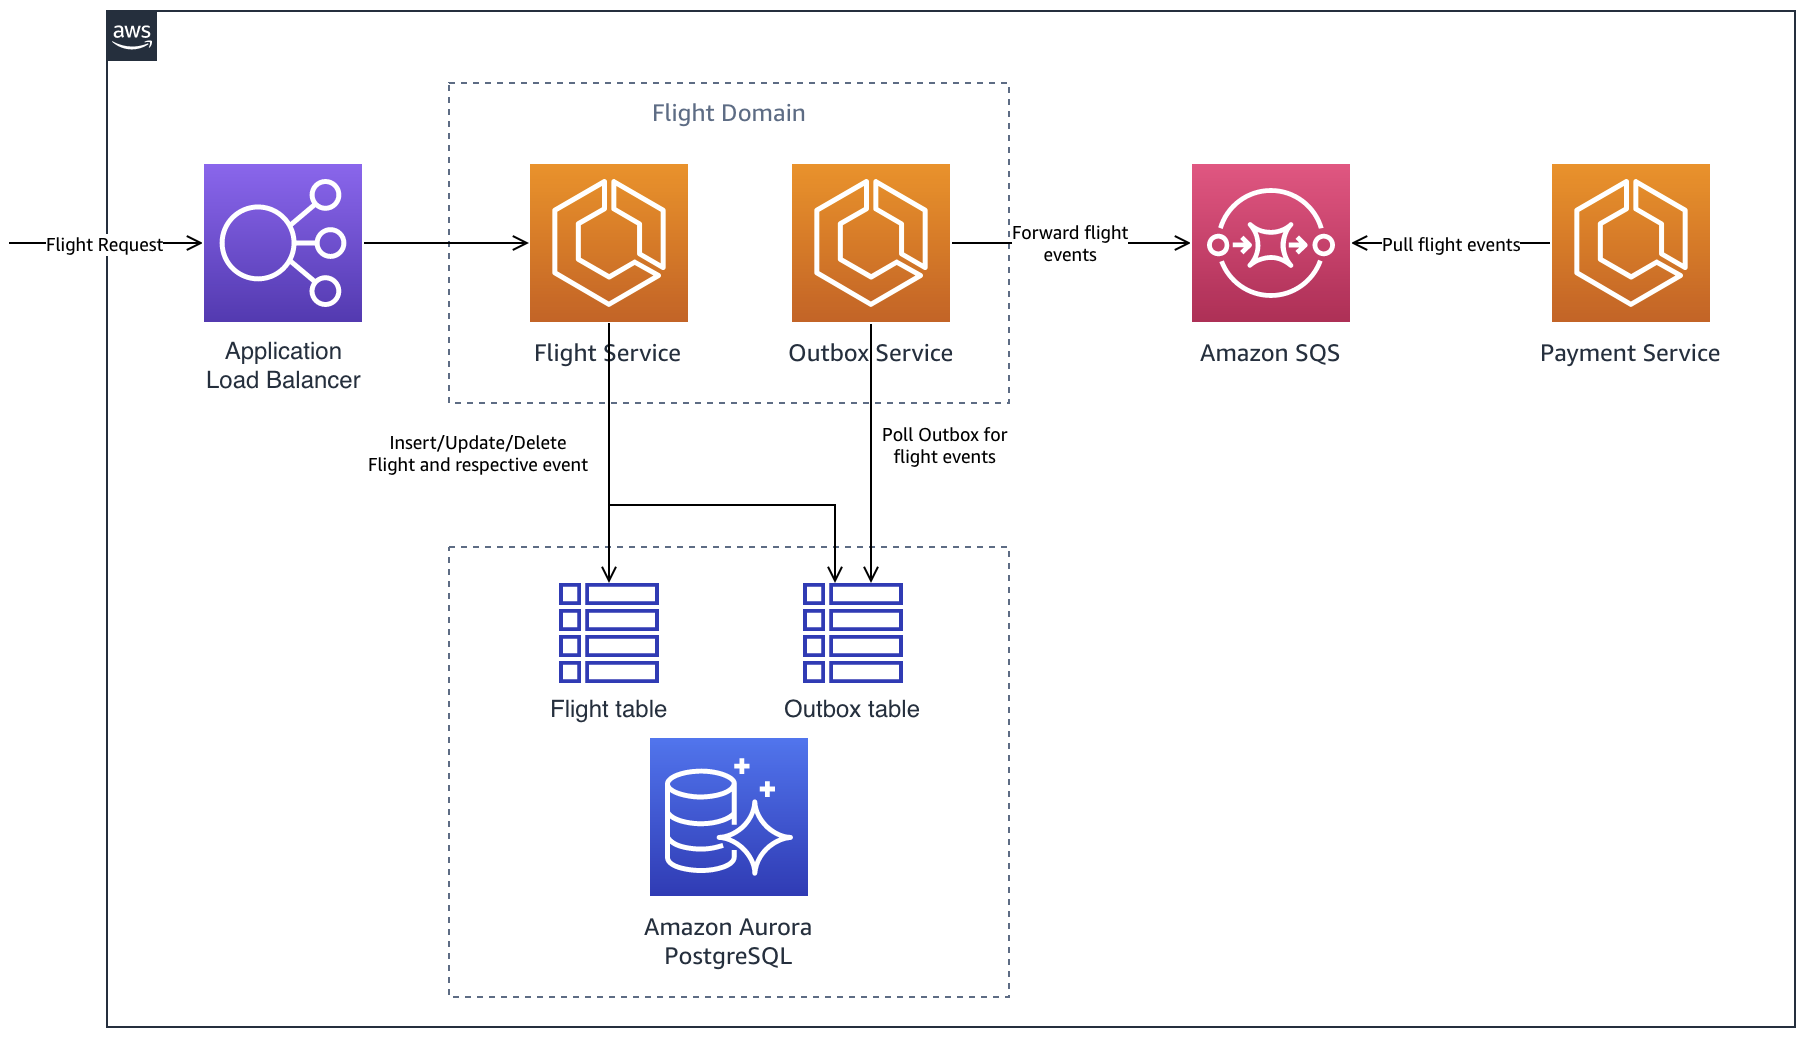
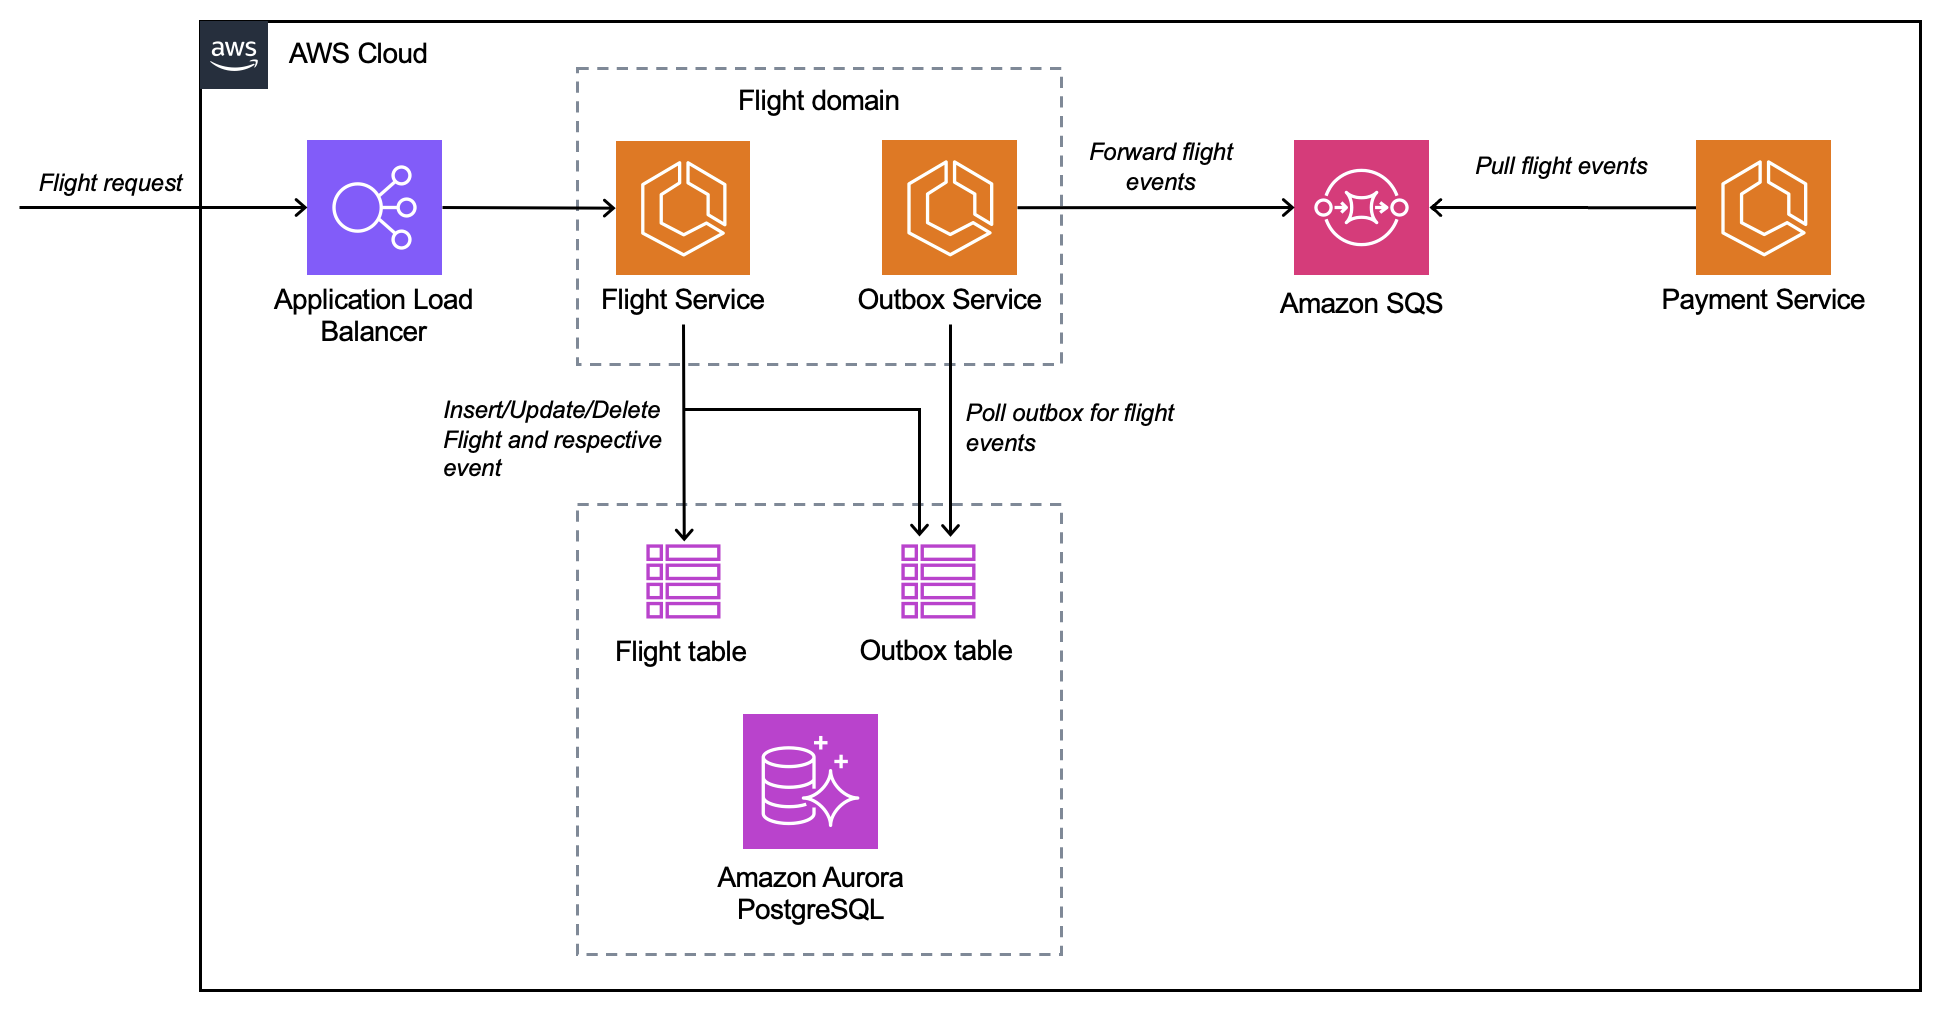
add clearer instructions and update diagrams

Changed region(s): [[0.0309, 0.0305, 1.0, 1.0], [0.0309, 0.0, 0.9901, 0.0915], [0.1856, 0.3967, 0.3713, 0.4882]]

diff --git a/README.md b/README.md
@@ -1,23 +1,23 @@
 ## Transactional Outbox Pattern Sample
 
-### Intent
+## Intent
 
 The transactional outbox pattern resolves the dual write operations issue that occurs in distributed systems when a single operation involves both a database write operation and a message or event notification. A dual write operation occurs when an application writes to two different systems; for example, when a microservice needs to persist data in the database and send a message to notify other systems. A failure in one of these operations might result in inconsistent data.
 
-### Motivation
+## Motivation
 
 When a microservice sends an event notification after a database update, these two operations should run atomically to ensure data consistency and reliability.
 - If the database update is successful but the event notification fails, the downstream service will not be aware of the change, and the system can enter an inconsistent state.
 - If the database update fails but the event notification is sent, data could get corrupted, which might affect the reliability of the system.
 
-### Applicability
+## Applicability
 
 Use the transactional outbox pattern when:
 - You're building an event-driven application where a database update initiates an event notification .
 - You want to ensure atomicity in operations that involve two services.
 - You want to implement the event sourcing pattern.
 
-### Issues and Considerations
+## Issues and Considerations
 
 Issues and considerations
 - Duplicate messages: The events processing service might send out duplicate messages or events, so we recommend that you make the consuming service idempotent by tracking the processed messages.
@@ -25,21 +25,37 @@ Issues and considerations
 - Transaction rollback: Do not send out an event notification if the transaction is rolled back.
 - Service-level transaction handling: If the transaction spans services that require data store updates, use the saga orchestration pattern to preserve data integrity across the data stores.
 
-### Implementation
+## Implementation
 
 This sample will lead you to provision the following infrastructure:
 ![Infra](outbox-sample-infra.png)
 
-**Provisioning the infrastructure**
+### Prerequisites
 
-- Make sure you have the latest version of the `cdk` installed (with all its dependencies) and `docker` installed on the machine/server you plan to run these commands on
-- Clone the repository
-- Enter the infra folder
-- Make sure you have the proper credentials to deploy infrastructure in AWS
-- Make sure the region in `infra-stack.ts` (line 92) is the same as the region you plan to deploy your stack in
-- Type the following commands: `cdk bootstrap` (if you have never deployed a cdk project in this account/region) and `cdk deploy`
-- After about 5-10 mins, the deployment will complete and it will output the ALB URL
-- You can append `swagger-ui.html` to the ALB URL to access the Swagger page
+-	An AWS account
+-	An AWS user with AdministratorAccess (see the instructions on the AWS Identity and Access Management (IAM) console)
+-	Access to the following AWS services: Elastic Load Balancing, Amazon ECS, Amazon Aurora, Amazon SQS
+-	Docker, Java 17 and NodeJS installed
+
+### Deploy using CDK
+
+#### Step 1: Download the application
+
+```shell
+$ git clone https://github.com/aws-samples/outbox-pattern-netcore-blog.git
+```
+#### Step 2: Deploy the CDK code
+
+The `cdk.json` file tells the CDK Toolkit how to execute your app. Make sure the region in `infra/lib/infra-stack.ts` (line 92) matches the region in which you plan to deploy your stack. Build and deploy the CDK code (including the application) using the commands below.
+
+```shell
+$ npm install -g aws-cdk
+$ cd infra
+$ cdk bootstrap
+$ cdk synth
+$ cdk deploy
+```
+After about 5-10 mins, the deployment will complete and it will output the Application Load Balancer URL. You can append `swagger-ui.html` to the ALB URL to access the Swagger page.
 
 ## Security
 
